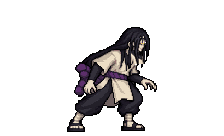
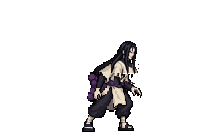
Orochimaru keeps his size through the Wind, Neck, Seal and Summon techniques: those frames redrawn from the idle figure's proportions (they were about 1.3x bulkier); neck root and seal flames moved to the new frames (orochimaru-moves-v11d)

Changed region(s): [[0.2812, 0.1765, 0.7188, 0.9706]]

diff --git a/ShinobiPrototype/Content/NPCs/Orochimaru.cs b/ShinobiPrototype/Content/NPCs/Orochimaru.cs
@@ -172,8 +172,8 @@ public sealed class Orochimaru : ExamBoss
     private Vector2 Mark => new(NPC.ai[2], NPC.ai[3]);
 
     // The long neck: from his collar to the head, which lunges out over NeckReachTicks and stays there to bite.
-    // The end of the neck stump in the neck frame (orochimaru-moves-v11c: canvas (134, 45), feet at (112, 132)).
-    private Vector2 NeckRoot => NPC.Bottom + new Vector2(NPC.direction * 22f, -87f) * SpriteScale;
+    // The end of the neck stump in the neck frame (orochimaru-moves-v11d: canvas (126, 57), feet at (112, 132)).
+    private Vector2 NeckRoot => NPC.Bottom + new Vector2(NPC.direction * 14f, -75f) * SpriteScale;
     private const int NeckHoldTicks = 12;
     private const int NeckBackTicks = 8;
 
@@ -564,7 +564,7 @@ public sealed class Orochimaru : ExamBoss
     private void DrawTechniqueFx(Color drawColor)
     {
         if (State == SealWindup && FxArt.Frame("FxSealFlame", (int)(Main.GameUpdateCount / 6), 3) is { } flame)
-            FxArt.Draw(flame, NPC.Bottom + new Vector2(NPC.direction * 48f, -76f) * SpriteScale, Color.White, 0f, ArtScale, NPC.direction);
+            FxArt.Draw(flame, NPC.Bottom + new Vector2(NPC.direction * 30f, -66f) * SpriteScale, Color.White, 0f, ArtScale, NPC.direction);
         if (summonPose > 0 && FxArt.Has("FxSummonCircle"))
         {
             float grow = Math.Min(1f, (40 - summonPose) / 12f);

diff --git a/art/deliveries/orochimaru-moves-v11d/DELIVERY.md b/art/deliveries/orochimaru-moves-v11d/DELIVERY.md
@@ -1,0 +1,43 @@
+status: delivered
+request ID: orochimaru-moves-v11d
+
+## Delivered files
+
+All paths are relative to this directory. The 11 runtime sprites are `224×136` PNG, facing right, with binary Alpha (`0` or `255`) and lowest opaque row `y=131`:
+
+| File | Opaque pixels | Visible tunic chest width* |
+|---|---:|---:|
+| `Orochimaru_WindIn_0.png` | 2810 | 21 px |
+| `Orochimaru_Wind_0.png` | 2632 | 22 px |
+| `Orochimaru_Wind_1.png` | 2419 | 17 px |
+| `Orochimaru_NeckIn_0.png` | 3006 | 28 px |
+| `Orochimaru_Neck_0.png` | 2475 | 29 px |
+| `Orochimaru_SealIn_0.png` | 2454 | 22 px |
+| `Orochimaru_Seal_0.png` | 2506 | 22 px |
+| `Orochimaru_Seal_1.png` | 2767 | 21 px |
+| `Orochimaru_SummonIn_0.png` | 2648 | 19 px |
+| `Orochimaru_Summon_0.png` | 2496 | 18 px |
+| `Orochimaru_Summon_1.png` | 2302 | 20 px |
+
+`preview.png` is a `2688×1224` PNG with binary Alpha, showing the 11 frames at 3× nearest-neighbor scale with the red `Idle_0` outline overlaid. Order is the table order, left to right in four columns; the final twelfth cell is empty.
+
+`imagegen-pose-source.png` is the built-in image generation source, copied from `$CODEX_HOME/generated_images/01a1038d-cff4-7961-98ee-16d92a75eb27/exec-758c8937-7902-4c05-9773-53f6d91a5b6c.png`. It is `1536×1024` RGBA with mixed Alpha values (`0–254`). It is a **pose guide only**, not a runtime sprite: its soft edges/background and body scale did not meet the requested pixel rules. The 11 delivered runtime PNGs were pixel-finished using `Idle_0` as the exact-scale head and palette reference and the named prior frames as action references.
+
+\*Chest width is the median horizontal span of visible light tunic pixels across the torso area, measured with the same method on every frame; bent poses and crossing arms can hide part of the chest. The same measure on `Idle_0` is 24 px. This is an audit measure, not a collision-box width.
+
+## Prompt summary
+
+Generate a transparent 11-pose side-view Orochimaru sheet from the supplied `Idle_0`: wind inhale/exhale, neck lean/headless root, seal wind-up/forward five-finger hand, and summoning thumb bite/ground crouch; retain the small face, slim proportions, cream clothing, purple rope, dark trousers, sandals, right-facing orientation and pixel-art character identity.
+
+## Checks performed
+
+- Visually inspected `Idle_0`, named prior action frames, generated pose source, `preview.png`, and game-size final frames.
+- All 11 runtime PNGs decode at `224×136`; their Alpha values are only `0/255`, their colours are drawn from the `Idle_0` palette, and their lowest opaque row is `131`.
+- Every frame has 2302–3006 opaque pixels, within `Idle_0`'s 2790 ±20% target (`2232–3348`).
+- Checked right-facing silhouette and pose sequence at game scale. The head/face pixels on headed frames were copied from `Idle_0` at 1:1 scale; `Neck_0` has no head.
+- `Neck_0` neck-root tip centre: **(128, 65)**, pointing upper-right. `Seal_1` forward fingertips centre: approximately **(142, 63)**.
+
+## Remaining game-side checks
+
+- Integrate the 11 sprites into the mod and check animation transitions, perceived size beside `Idle_0`, neck connection at (128, 65), and seal effect alignment around (142, 63) in tModLoader.
+- No build, reload, or in-game acceptance check was run in this art-worker task.

diff --git a/art/requests/orochimaru-moves-v11d.md b/art/requests/orochimaru-moves-v11d.md
@@ -1,0 +1,19 @@
+# 素材请求：orochimaru-moves-v11d
+
+- 状态：requested
+- 提出者及提交号：Claude Code（用户 2026-10-03 试玩：“释放某些招式的时候体型会突然变大”）
+- **问题**：`orochimaru-set-v11b` 的风遁、伸颈、封印、通灵帧，人比站立帧壮了约 1.3 倍。脸是按要求原样复制的，大小没变，但躯干、裤子、手、头发都画大了。实测（不透明像素数 / 站立胸宽）：站立 `Idle_0` 2790 / 28；`NeckIn_0` 5242 / 64；`Seal_1` 4419 / 71；`Summon_0` 4369 / 58；`WindIn_0` 4392。游戏里一出招，人就像突然胀了一圈。
+- **底稿与尺子（必须作为图像参考）**：`ShinobiPrototype/Content/NPCs/Orochimaru_Idle_0.png`。**每一帧的身体比例都严格照它**：
+  - 站姿时两眼到脚底 93 像素；胸宽约 28、腰宽约 32、单条裤管宽约 14～16、手掌约 6～7、草鞋长 14～15 像素；头和头发的体量和站立帧一样（头发不要变成一大片）；
+  - 做法：**以 Idle_0 的像素为基础改姿势**（像摆木偶一样移动手臂、腿和上身，弯腰、半蹲时整体变矮），**不要重新生成一个更大的人**；
+  - 自检：除去伸出去的手臂，每帧不透明像素数应在 2790 的 ±20% 以内。
+- **脸绝对不要改**：从 Idle_0 原样复制（金眼各 1 像素、紫色眼影、2 像素细嘴）。
+- 姿势参考（只看动作，不看比例）：`ShinobiPrototype/Content/NPCs/` 下现有的同名帧。
+- 规格：224×136，1:1，不按 2×2 网格，中线 x=112，脚底最低行 y=131，面朝右，透明背景，Alpha 只有 0/255，颜色用 Idle_0 的调色板。
+- 文件：
+  - `Orochimaru_WindIn_0`、`Orochimaru_Wind_0`～`_1`（吸气后仰 → 向前猛吐）；
+  - `Orochimaru_NeckIn_0`（前倾、有头）、`Orochimaru_Neck_0`（同一姿势、**没有头**，领口伸出约 6 像素的脖子根朝右上，交付说明写出脖子根末端中心坐标）；
+  - `Orochimaru_SealIn_0`、`Orochimaru_Seal_0`～`_1`（一手五指张开向前推出，交付说明写出 `Seal_1` 指尖中心坐标）；
+  - `Orochimaru_SummonIn_0`、`Orochimaru_Summon_0`～`_1`（咬破拇指 → 一手按地半蹲）。
+- 交付：全部放根下；`preview.png`：每帧上叠一层 Idle_0 的红色轮廓（脚底对齐），3 倍；另附每帧的不透明像素数和胸宽列表。
+- 交付后接入提交号：待填
